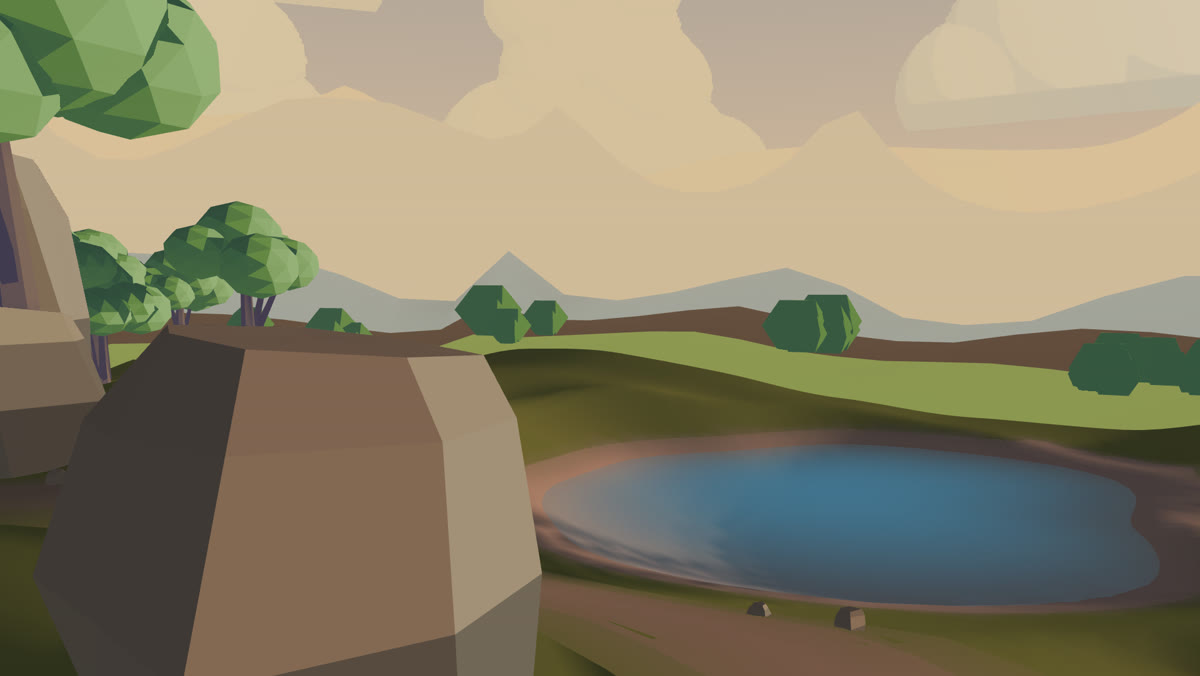
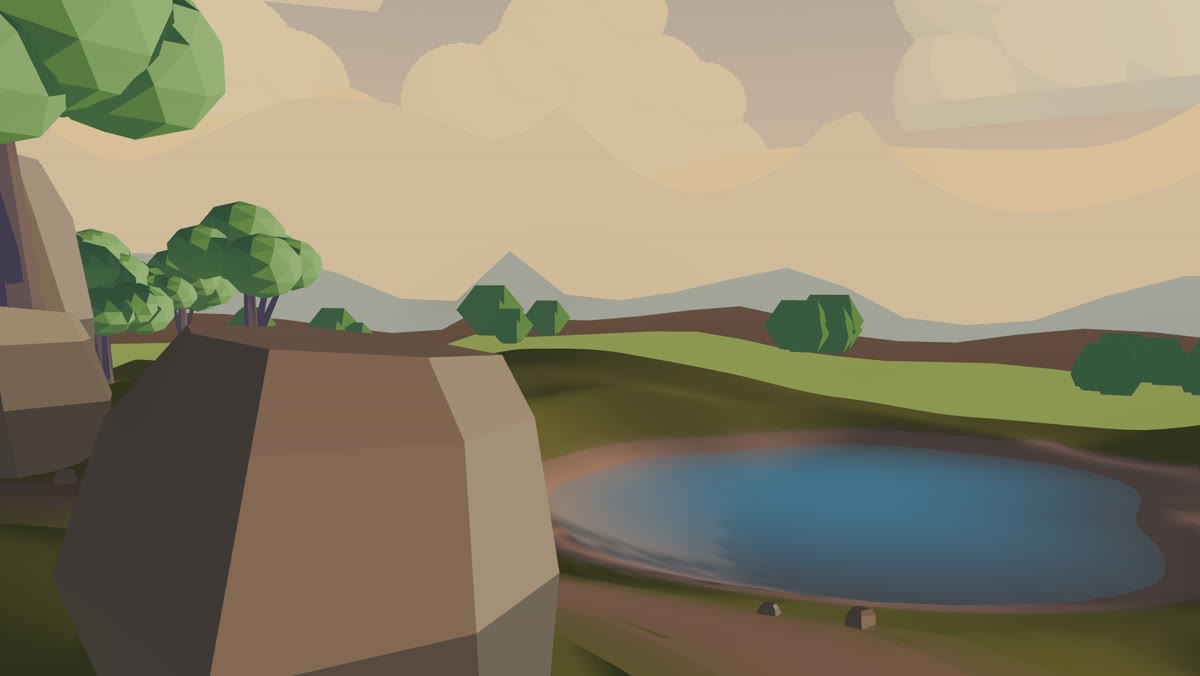
README: interiors planned before they are built; the gen-7 sky's own clouds
Environments and levels now has three parts. Rooms: the floor plan's
house. Interiors, planned before they are built: the hangar facility's
plan (the way in, level by level) and one level's finishes, the plan the
person approves, then the six rooms built to it, each level in its own
materials. Terrain: the lake in the hills in a sixth- and a
seventh-generation look, re-shot with the gen-7 sky's own fine clouds
in place of the painted cards (the fix is the next commit). The npm
README's list names the facility.

Claude-Session: https://claude.ai/code/session_01TGh5DwrRuSM8xUe6ToE425

diff --git a/README.md b/README.md
@@ -81,15 +81,35 @@ Heroes in a realistic, cartoon or anime look, with faces that act. Hair, clothes
 
 <sub>"We just moved in, here's our floor plan! Some ideas for how we could live in it?"</sub>
 
-Indoors: send a picture of your floor plan and you get your house, built to the inch, each room designed in a style, a palette and furniture at true size, with the walkways kept clear. Ask for sage green walls and you see the room before and after. Or start from a sentence: a six-storey building with a penthouse, an office, a warehouse, a base to sneak through, a torch-lit dungeon.
+**Rooms.** Send a picture of your floor plan and you get your house, built to the inch, each room designed in a style, a palette and furniture at true size, with the walkways kept clear. Ask for sage green walls and you see the room before and after.
+
+**Interiors, planned before they are built.** Ask for a facility, say a military base with a hangar, barracks, an armoury and a reactor plant at its heart, each unlike the last, and you see the plan first: the way in from level to level, and each level's walls, floors, paint and light as the build will lay them. Nothing is built until you say yes.
 
 | | |
 |---|---|
-| ![A lake in the hills at sunset, in the look of a sixth-generation console game: low-poly trees with faceted crowns, smooth painted grass, a flat-shaded boulder, the lake a soft blue pool](docs/images/landscape-gen6.jpg) | ![The same lake in the hills at sunset, in the look of a seventh-generation console game: tall grass, branching trees with leaves, boulders with cracked and textured rock, the lake glinting behind them](docs/images/landscape-gen7.jpg) |
+| ![The plan's "To the core" page: the four levels drawn as rings around the reactor at the centre, each stair or door on its join, beside a table of each level's look as colour swatches and the design rules the plan holds](docs/images/wcd-demo-book.png) | ![One level's finishes, before it is built: the armoury's wall, base, floor, column, crown, ceiling, paint and band, each a tile of its material with its size, and the colours of its lights](docs/images/wcd-demo-finishes.png) |
+
+<sub>The plan you approve: the way in, level by level, and one level's materials and light.</sub>
+
+Then it is built to that plan, each level in its own materials, and stocked for what it is: bunks and footlockers in the barracks, weapon racks in the armoury, sandbags at the guard posts, an extinguisher by every door.
+
+| | |
+|---|---|
+| ![The hangar: a vaulted steel shed with an orange gantry crane, a yellow-hatched parking box and jersey barriers on the floor](docs/images/wcd-demo-hangar-room.jpg) | ![The hangar's corridor: riveted steel columns banded orange, braced plate walls, hazard stripes at the door frames](docs/images/wcd-demo-hangar-corridor.jpg) |
+| ![A barracks bunk room: wood-veneer walls, bunks along both sides, footlockers between them, carpet tile underfoot](docs/images/wcd-demo-barracks-room.jpg) | ![The armoury's corridor: board-formed concrete, yellow and green steel on its columns, a cable along the wall under its tray, hazard stripes at a doorway](docs/images/wcd-demo-armoury-corridor.jpg) |
+| ![The reactor plant's generator hall: white panels, a catwalk and two stairs, the generator on its plinth between jersey barriers](docs/images/wcd-demo-reactor-room.jpg) | ![The reactor plant's corridor: white panels over a teal tiled dado, a terrazzo floor, deep blue on the frames](docs/images/wcd-demo-reactor-corridor.jpg) |
+
+<sub>"I'm making a stealth game. Build me a multi-level military base to infiltrate": the hangar, the barracks, the armoury and the reactor plant, as built.</sub>
+
+Or start from a sentence: a six-storey building with a penthouse, an office, a warehouse, a torch-lit dungeon.
+
+**Terrain.** Grown from a sentence, with its hills, rock, water, grass and trees, at any hour of the day. Choose how real it looks, from the painted look of a sixth-generation console game to the grass, leaves and textured rock of a seventh. Rock, sand or snow underfoot; caverns, islands, planets, a historic city in its period ([docs/historic/README.md](docs/historic/README.md)), cities at real scale in the style of New York, Paris, London or Tokyo. Ask for the same place again and you get the same place, on any machine.
+
+| | |
+|---|---|
+| ![A lake in the hills at sunset, in the look of a sixth-generation console game: low-poly trees with faceted crowns, smooth painted grass, a flat-shaded boulder, the lake a soft blue pool](docs/images/landscape-gen6.jpg) | ![The same lake in the hills at sunset, in the look of a seventh-generation console game: tall grass, branching trees with leaves, a rippling lake with lily pads, and fine wisps of cloud in the sky](docs/images/landscape-gen7.jpg) |
 
 <sub>"A lake in the hills at sunset," in a sixth-generation look and a seventh.</sub>
-
-Outdoors: terrain grown from a sentence, with its hills, rock, water, grass and trees, at any hour of the day. Choose how real it looks, from the painted look of a sixth-generation console game to the grass, leaves and textured rock of a seventh. Rock, sand or snow underfoot; caverns, islands, planets, a historic city in its period ([docs/historic/README.md](docs/historic/README.md)), cities at real scale in the style of New York, Paris, London or Tokyo. Ask for the same place again and you get the same place, on any machine.
 
 ### Interactive worlds
 

diff --git a/control/README.md b/control/README.md
@@ -61,7 +61,7 @@ Start small and go as far as you like.
 - **3D objects.** Anything you can describe, at its real size, down to the pieces it is made of: a chest of drawers you can build, with its cut list, hardware list and assembly order; a bracket for your shelf; a Raspberry Pi case. Print it at true size as STL or 3MF.
 - **Game items.** Swords, staffs, shields and bows in a historical, elven or dwarven style; handguns, rifles and knives, modern or from the future; karts, supercars, aircraft, boats, trains and walking mecha; the props that fill a level.
 - **Characters.** Heroes in a realistic, cartoon or anime look, with faces that act; hair, clothes, armour, shoes and gear fitted to the body; animals mid-stride. Rigged and animated, ready for a game or for your 3D tools.
-- **Environments and levels.** Your house from a picture of its floor plan, built to the inch, each room designed with furniture at true size. Terrain from a sentence, with its hills, rock, water, grass and trees, in the painted look of a sixth-generation console game or the grass, leaves and textured rock of a seventh. A base to sneak through, a dungeon, a historic city in its period, cities at real scale in the style of New York, Paris, London or Tokyo.
+- **Environments and levels.** Your house from a picture of its floor plan, built to the inch, each room designed with furniture at true size. A facility of several levels, a hangar, barracks, an armoury and a reactor plant each in its own materials, planned first (the way through it and every level's walls, floors and light) and built only when you approve the plan. Terrain from a sentence, with its hills, rock, water, grass and trees, in the painted look of a sixth-generation console game or the grass, leaves and textured rock of a seventh. A dungeon, a historic city in its period, cities at real scale in the style of New York, Paris, London or Tokyo.
 - **Interactive worlds.** Worlds you walk in the browser, with traffic and people on the streets, music and sound made from scratch, and flythroughs and cutscenes with actors who play a role from a script.
 - **Playable games.** Stealth, racing, shooters, flight, fighting, rhythm, sports, board and strategy games, a pen-and-paper RPG; enemies from grunts to a boss; two to four players on one screen. You approve the plan first, and every level is played through to its win before you get it.
 
